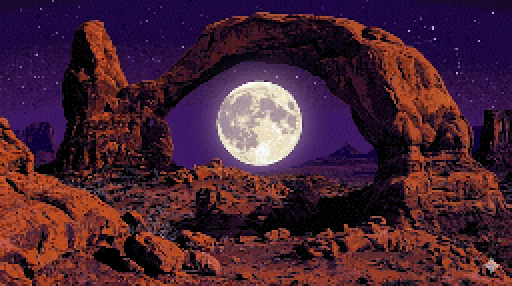
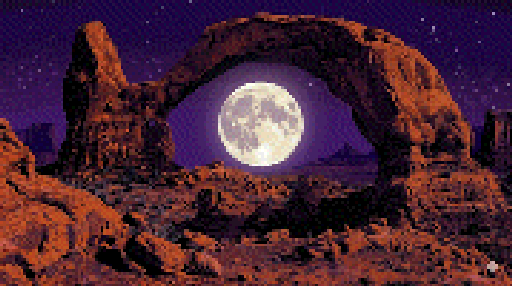
Fix wallpaper display, add Fill/Fit sizing, change default to orange
Bug fix — degraded image appeared unchanged on desktop:
  The browser bilinear-scales background-image to fill the viewport,
  smoothing away the dithering pattern entirely. Fix: add
  imageRendering: "pixelated" to the desktop div style when a wallpaper
  is active, which forces nearest-neighbour scaling and keeps the
  dithering dots crisp.

Stronger degradation effect (less subtle, harder to miss):
  BITS_PER_CHANNEL 5→4 (max quantisation error 4→8.5 units per channel)
  DOWNSCALE_FACTOR 0.5→0.35 (pixel blocks ~2×2→~3×3 when upscaled)
  Added MAX_INPUT_DIM=1024 cap to prevent canvas memory failures on
  large mobile uploads.
  drawImage now passes source rect explicitly to honour the capped dims.

Preset wallpapers regenerated with the new parameters.

Wallpaper sizing options:
  New wallpaperFit: "cover"|"contain" field in DesktopSettings.
  Default: "cover" (fills screen, may crop edges).
  "Fit" uses contain (full image visible, black letterbox bars).
  DisplayApp shows Fill/Fit toggle buttons below the preset picker.
  Desktop and preview both honour the setting via backgroundSize.

Default desktop background:
  Changed from bgType:"noahsoft" (near-black gradient) to
  bgType:"solid" solidColor:"#cc4400" — the OS primary orange.

https://claude.ai/code/session_01Y3Lbf5KvsD87EFGy9pFmd5

diff --git a/src/experiences/NsDoors97/imageDegrade.ts b/src/experiences/NsDoors97/imageDegrade.ts
@@ -1,24 +1,28 @@
 /**
- * imageDegrade.ts — browser-side "1997 high-color" image degradation
+ * imageDegrade.ts — browser-side "1997 256-color" image degradation
  *
  * Produces images that look like they came from a Windows 95/98 machine
- * with a 16-bit "High Color" display:
+ * with an 8-bit "256 color" display:
  *
- *   1. Downscale to DOWNSCALE_FACTOR with bilinear interpolation
- *   2. Floyd-Steinberg dither to a 5-bit-per-channel palette
- *      (32 levels × 3 channels ≈ 32 768 addressable colours, but colour
- *       transitions produce the characteristic stipple/speckle pattern)
- *   3. Nearest-neighbour upscale back to original dimensions
- *      (each downscaled pixel becomes a small block — subtle pixellation)
+ *   1. Cap resolution to MAX_INPUT_DIM to avoid canvas memory failures
+ *      on large uploads (phones, hi-res photos)
+ *   2. Downscale to DOWNSCALE_FACTOR with bilinear interpolation
+ *   3. Floyd-Steinberg dither to a 4-bit-per-channel palette
+ *      (16 levels per channel, step ~17 — produces visible stippling on
+ *       any smooth gradient)
+ *   4. Nearest-neighbour upscale back to the (capped) original dimensions
+ *
+ * NOTE: the caller must set `imageRendering: pixelated` on the element that
+ * displays the result; otherwise the browser bilinear-scales it back to
+ * looking smooth.
  */
 
-const DOWNSCALE_FACTOR   = 0.5; // 50% → 2×2 pixel blocks when upscaled
-const BITS_PER_CHANNEL   = 5;   // 32 levels per R/G/B — 16-bit "High Color"
+const DOWNSCALE_FACTOR = 0.35; // 35% → ~2.9× pixel blocks when upscaled
+const BITS_PER_CHANNEL = 4;    // 16 levels per R/G/B — max error ~8.5 units
+const MAX_INPUT_DIM    = 1024; // cap before processing to stay in memory
 
-// ── Palette quantisation ──────────────────────────────────────────────────────
-
-const LEVELS = 1 << BITS_PER_CHANNEL;         // 32
-const STEP   = 255 / (LEVELS - 1);            // ~8.226
+const LEVELS = 1 << BITS_PER_CHANNEL;  // 16
+const STEP   = 255 / (LEVELS - 1);     // 17
 
 function quantize(v: number): number {
   return Math.round(v / STEP) * STEP;
@@ -27,7 +31,6 @@ function quantize(v: number): number {
 // ── Floyd-Steinberg dithering (in-place on Uint8ClampedArray) ─────────────────
 
 function floydSteinberg(data: Uint8ClampedArray, width: number, height: number): void {
-  // Floating-point error accumulators (separate from the clamped pixel data)
   const errR = new Float32Array(width * height);
   const errG = new Float32Array(width * height);
   const errB = new Float32Array(width * height);
@@ -53,7 +56,6 @@ function floydSteinberg(data: Uint8ClampedArray, width: number, height: number):
       const dG = oldG - newG;
       const dB = oldB - newB;
 
-      // Distribute error to the four neighbours:
       //   right        7/16
       //   bottom-left  3/16
       //   bottom       5/16
@@ -82,8 +84,6 @@ function floydSteinberg(data: Uint8ClampedArray, width: number, height: number):
   }
 }
 
-// ── Load a URL into an HTMLImageElement ───────────────────────────────────────
-
 function loadImage(src: string): Promise<HTMLImageElement> {
   return new Promise((resolve, reject) => {
     const img = new Image();
@@ -96,32 +96,44 @@ function loadImage(src: string): Promise<HTMLImageElement> {
 // ── Main export ───────────────────────────────────────────────────────────────
 
 /**
- * Degrades an image source URL to look like a 1997-era Windows wallpaper.
- * Returns a PNG data URL with the dithering baked in.
+ * Degrades an image source URL to look like a 1997-era Windows 256-color
+ * wallpaper. Returns a PNG data URL with the dithering baked in.
+ *
+ * The result must be displayed with `imageRendering: "pixelated"` so the
+ * browser doesn't bilinear-scale away the dithering pattern.
  */
 export async function degradeForWallpaper(src: string): Promise<string> {
-  const img  = await loadImage(src);
-  const origW = img.naturalWidth  || img.width;
-  const origH = img.naturalHeight || img.height;
+  const img = await loadImage(src);
+
+  // Step 0: cap resolution so canvas stays within mobile memory limits
+  let origW = img.naturalWidth;
+  let origH = img.naturalHeight;
+  if (!origW || !origH) throw new Error("Could not read image dimensions");
+
+  if (origW > MAX_INPUT_DIM || origH > MAX_INPUT_DIM) {
+    const scale = Math.min(MAX_INPUT_DIM / origW, MAX_INPUT_DIM / origH);
+    origW = Math.round(origW * scale);
+    origH = Math.round(origH * scale);
+  }
 
   const downW = Math.max(Math.round(origW * DOWNSCALE_FACTOR), 16);
   const downH = Math.max(Math.round(origH * DOWNSCALE_FACTOR), 16);
 
-  // ── Step 1: Downscale with smooth interpolation ───────────────────────────
+  // Step 1: downscale with smooth interpolation
   const small = document.createElement("canvas");
   small.width  = downW;
   small.height = downH;
   const smallCtx = small.getContext("2d")!;
   smallCtx.imageSmoothingEnabled = true;
   smallCtx.imageSmoothingQuality = "high";
-  smallCtx.drawImage(img, 0, 0, downW, downH);
+  smallCtx.drawImage(img, 0, 0, origW, origH, 0, 0, downW, downH);
 
-  // ── Step 2: Floyd-Steinberg dither to 5-bit palette ───────────────────────
+  // Step 2: Floyd-Steinberg dither to 4-bit palette
   const px = smallCtx.getImageData(0, 0, downW, downH);
   floydSteinberg(px.data, downW, downH);
   smallCtx.putImageData(px, 0, 0);
 
-  // ── Step 3: Nearest-neighbour upscale (pixellated, no blur) ──────────────
+  // Step 3: nearest-neighbour upscale (chunky pixel blocks, no blur)
   const out = document.createElement("canvas");
   out.width  = origW;
   out.height = origH;

diff --git a/src/experiences/NsDoors97/DisplayApp.tsx b/src/experiences/NsDoors97/DisplayApp.tsx
@@ -3,6 +3,7 @@ import {
   type DesktopSettings,
   type DesktopBgType,
   type WallpaperPreset,
+  type WallpaperFit,
   NOAHSOFT_GRADIENT,
 } from "./desktopSettings";
 import { degradeForWallpaper } from "./imageDegrade";
@@ -54,10 +55,17 @@ function getPreviewStyle(settings: DesktopSettings): React.CSSProperties {
   if (settings.bgType === "wallpaper") {
     const url = resolveWallpaperUrl(settings);
     return url
-      ? { backgroundImage: `url(${url})`, backgroundSize: "cover", backgroundPosition: "center" }
+      ? {
+          backgroundImage:    `url(${url})`,
+          backgroundSize:     settings.wallpaperFit,
+          backgroundPosition: "center",
+          backgroundRepeat:   "no-repeat",
+          backgroundColor:    "#000000",
+          imageRendering:     "pixelated",
+        }
       : { background: "#000" };
   }
-  if (settings.bgType === "solid")    return { background: settings.solidColor };
+  if (settings.bgType === "solid") return { background: settings.solidColor };
   return { background: NOAHSOFT_GRADIENT };
 }
 
@@ -248,6 +256,20 @@ export default function DisplayApp({ settings, onApply, onCancel }: DisplayAppPr
                     <span className="ns-display-app__wp-thumb-label">Custom</span>
                   </button>
                 )}
+              </div>
+
+              {/* Fill / Fit toggle */}
+              <label className="ns-display-app__label ns-display-app__label--gap">Display</label>
+              <div className="ns-display-app__fit-row">
+                {(["cover", "contain"] as WallpaperFit[]).map((fit) => (
+                  <button
+                    key={fit}
+                    className={`ns-display-app__btn ns-display-app__btn--fit${local.wallpaperFit === fit ? " ns-display-app__btn--fit-active" : ""}`}
+                    onClick={() => setLocal((p) => ({ ...p, wallpaperFit: fit }))}
+                  >
+                    {fit === "cover" ? "Fill" : "Fit"}
+                  </button>
+                ))}
               </div>
 
               {/* Upload button */}

diff --git a/src/experiences/NsDoors97/desktopSettings.ts b/src/experiences/NsDoors97/desktopSettings.ts
@@ -1,18 +1,21 @@
 export type DesktopBgType    = "noahsoft" | "solid" | "wallpaper";
 export type WallpaperPreset  = "sunset" | "arch";
+export type WallpaperFit     = "cover" | "contain";
 
 export interface DesktopSettings {
   bgType:             DesktopBgType;
   solidColor:         string;
   wallpaperPreset:    WallpaperPreset | null;
   wallpaperCustomUrl: string | null; // data URL for user-uploaded images
+  wallpaperFit:       WallpaperFit;
 }
 
 export const DEFAULT_DESKTOP_SETTINGS: DesktopSettings = {
-  bgType:             "noahsoft",
-  solidColor:         "#008080",
+  bgType:             "solid",
+  solidColor:         "#cc4400",
   wallpaperPreset:    null,
   wallpaperCustomUrl: null,
+  wallpaperFit:       "cover",
 };
 
 export const NOAHSOFT_GRADIENT =
@@ -36,6 +39,7 @@ export function loadDesktopSettings(): DesktopSettings {
       solidColor:         p.solidColor         ?? DEFAULT_DESKTOP_SETTINGS.solidColor,
       wallpaperPreset:    p.wallpaperPreset     ?? null,
       wallpaperCustomUrl: p.wallpaperCustomUrl  ?? null,
+      wallpaperFit:       p.wallpaperFit        ?? DEFAULT_DESKTOP_SETTINGS.wallpaperFit,
     };
   } catch {
     return { ...DEFAULT_DESKTOP_SETTINGS };

diff --git a/src/experiences/NsDoors97/DisplayApp.css b/src/experiences/NsDoors97/DisplayApp.css
@@ -281,6 +281,23 @@
   max-width: 60px;
 }
 
+/* ── Fill / Fit toggle ───────────────────────────────────────────────────── */
+
+.ns-display-app__fit-row {
+  display: flex;
+  gap: 4px;
+}
+
+.ns-display-app__btn--fit {
+  min-width: 40px;
+  opacity: 0.6;
+}
+
+.ns-display-app__btn--fit-active {
+  opacity: 1;
+  border-color: #664400 #ffcc88 #ffcc88 #664400; /* sunken orange */
+}
+
 /* ── Upload row ──────────────────────────────────────────────────────────── */
 
 .ns-display-app__upload-row {

diff --git a/src/experiences/NsDoors97/NsDoors97.tsx b/src/experiences/NsDoors97/NsDoors97.tsx
@@ -505,9 +505,12 @@ export default function NsDoors97() {
         : (desktopSettings.wallpaperCustomUrl ?? "");
       return {
         backgroundImage:    url ? `url(${url})` : undefined,
-        backgroundSize:     "cover",
+        backgroundSize:     desktopSettings.wallpaperFit,
         backgroundPosition: "center",
+        backgroundRepeat:   "no-repeat",
         backgroundColor:    "#000000",
+        // Prevent the browser from bilinear-scaling away the dithering pattern
+        imageRendering:     "pixelated",
       };
     }
     return { background: getDesktopBackground(desktopSettings) };
